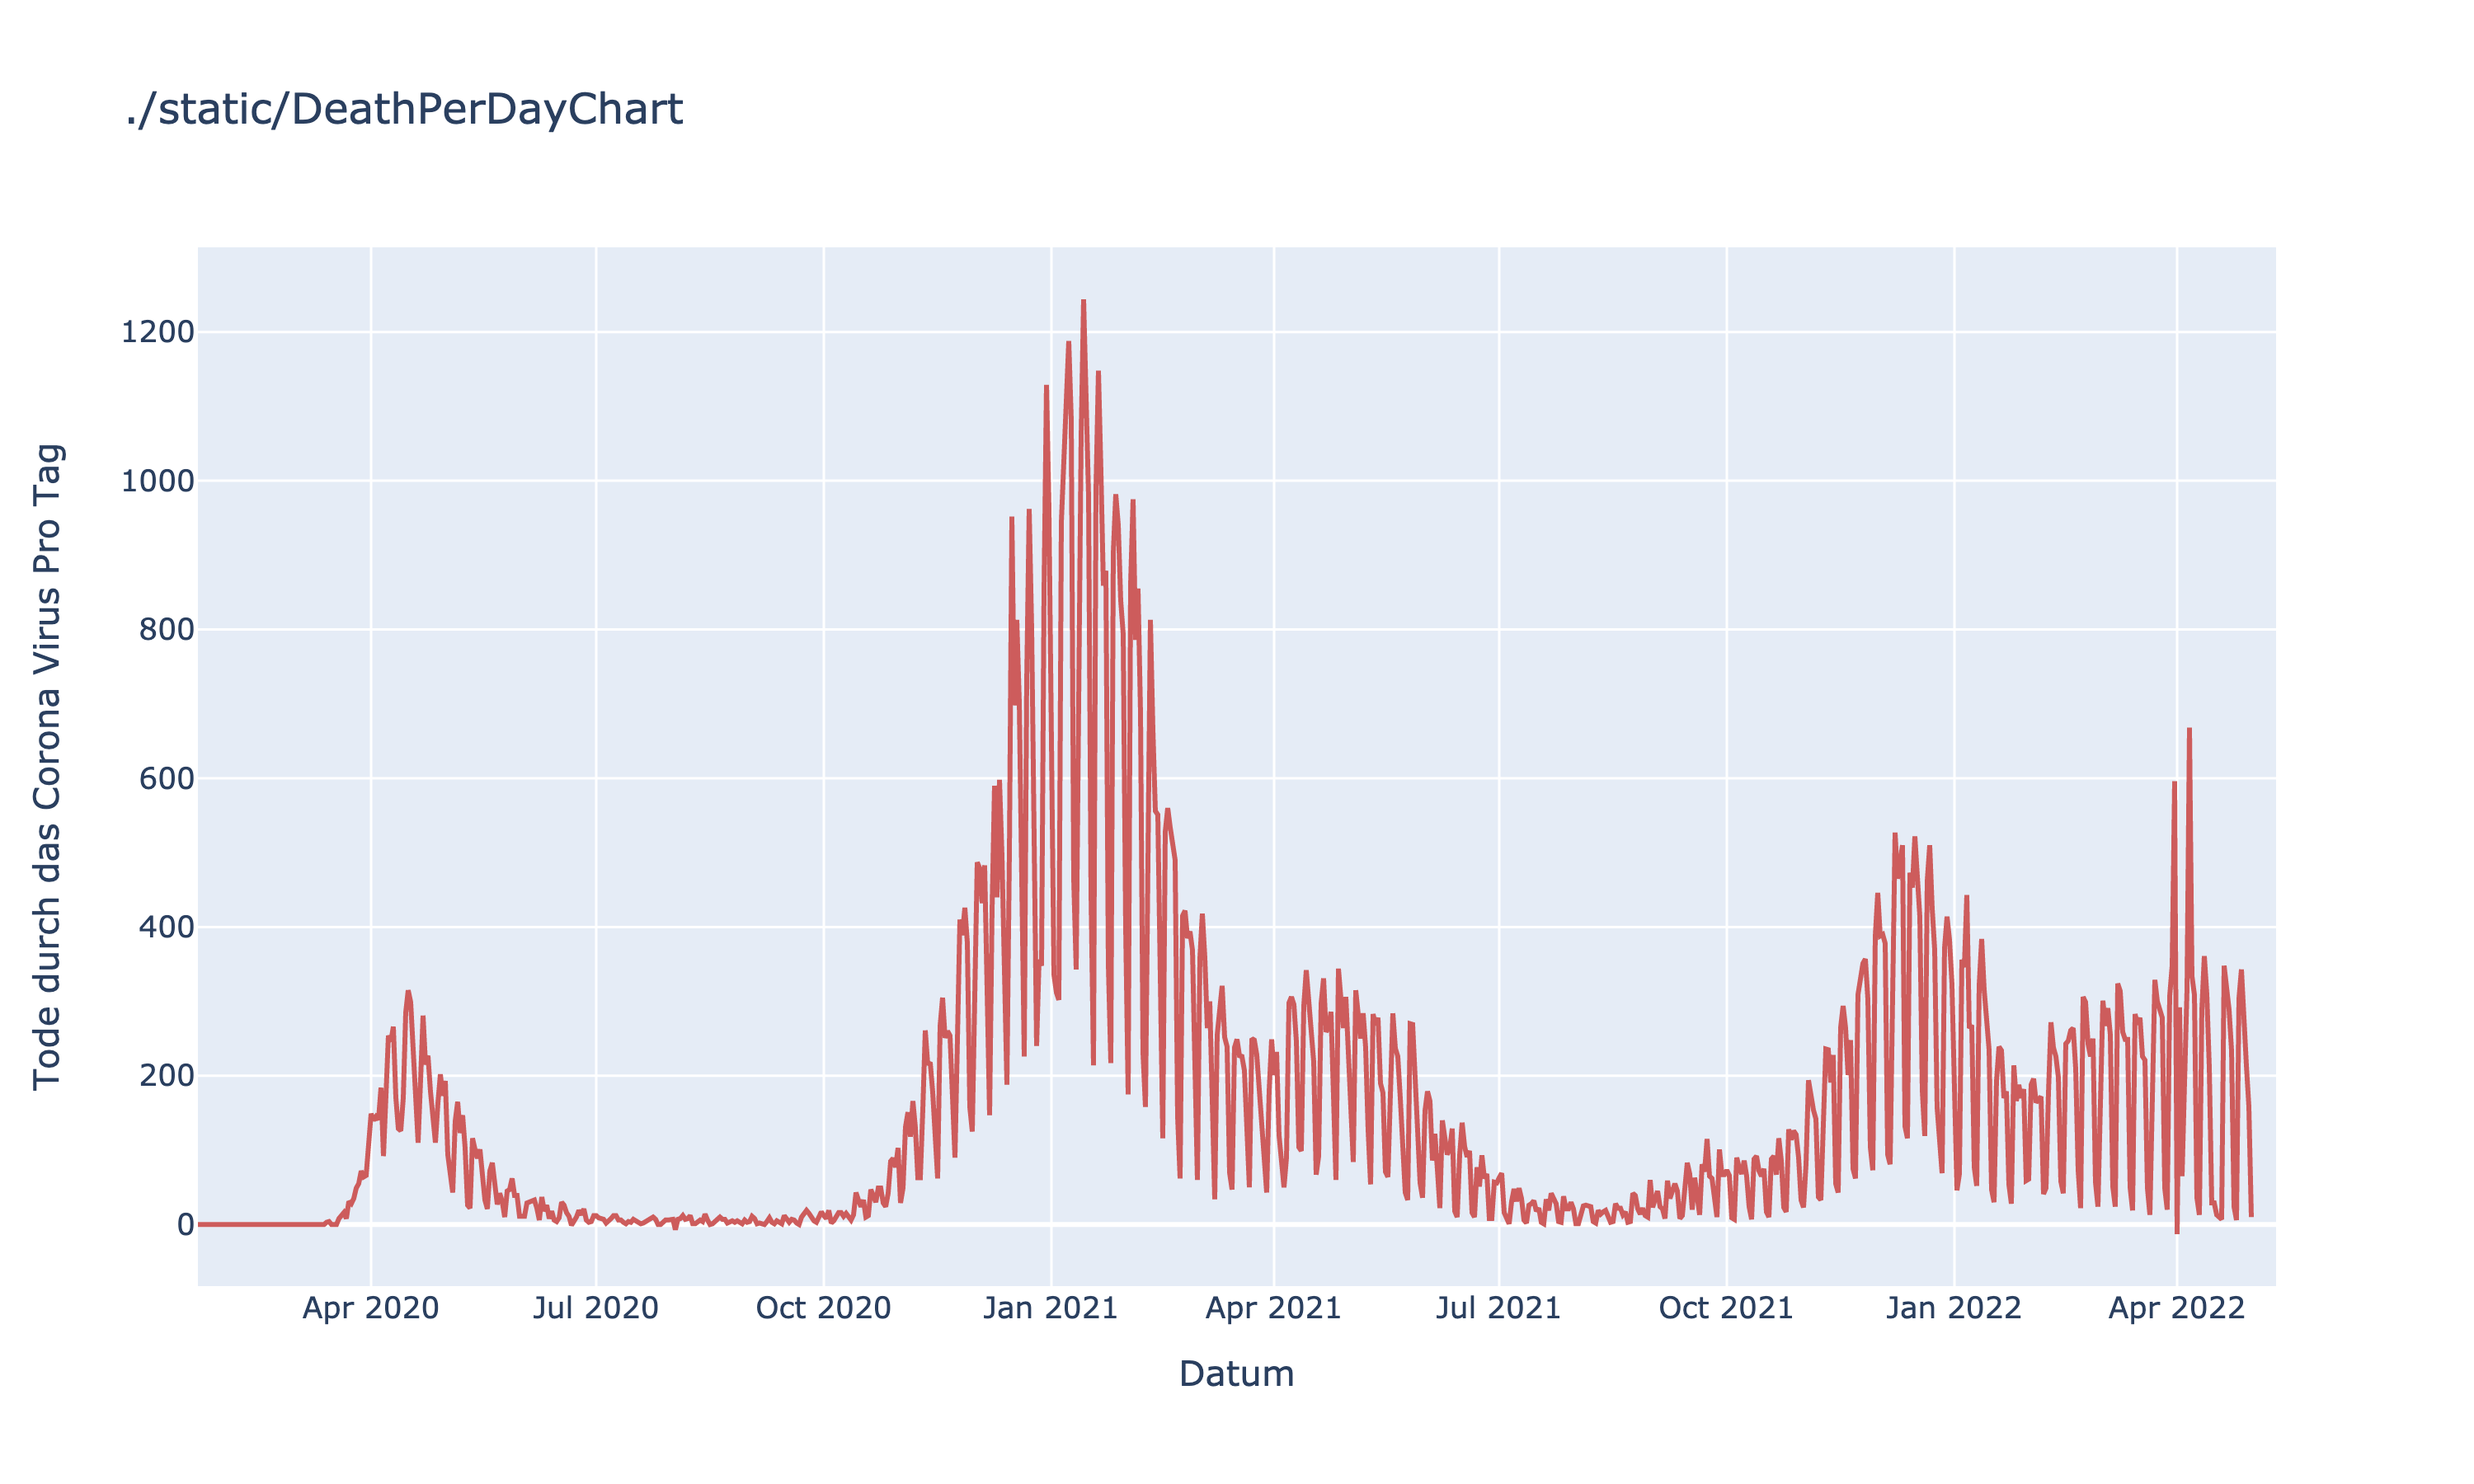
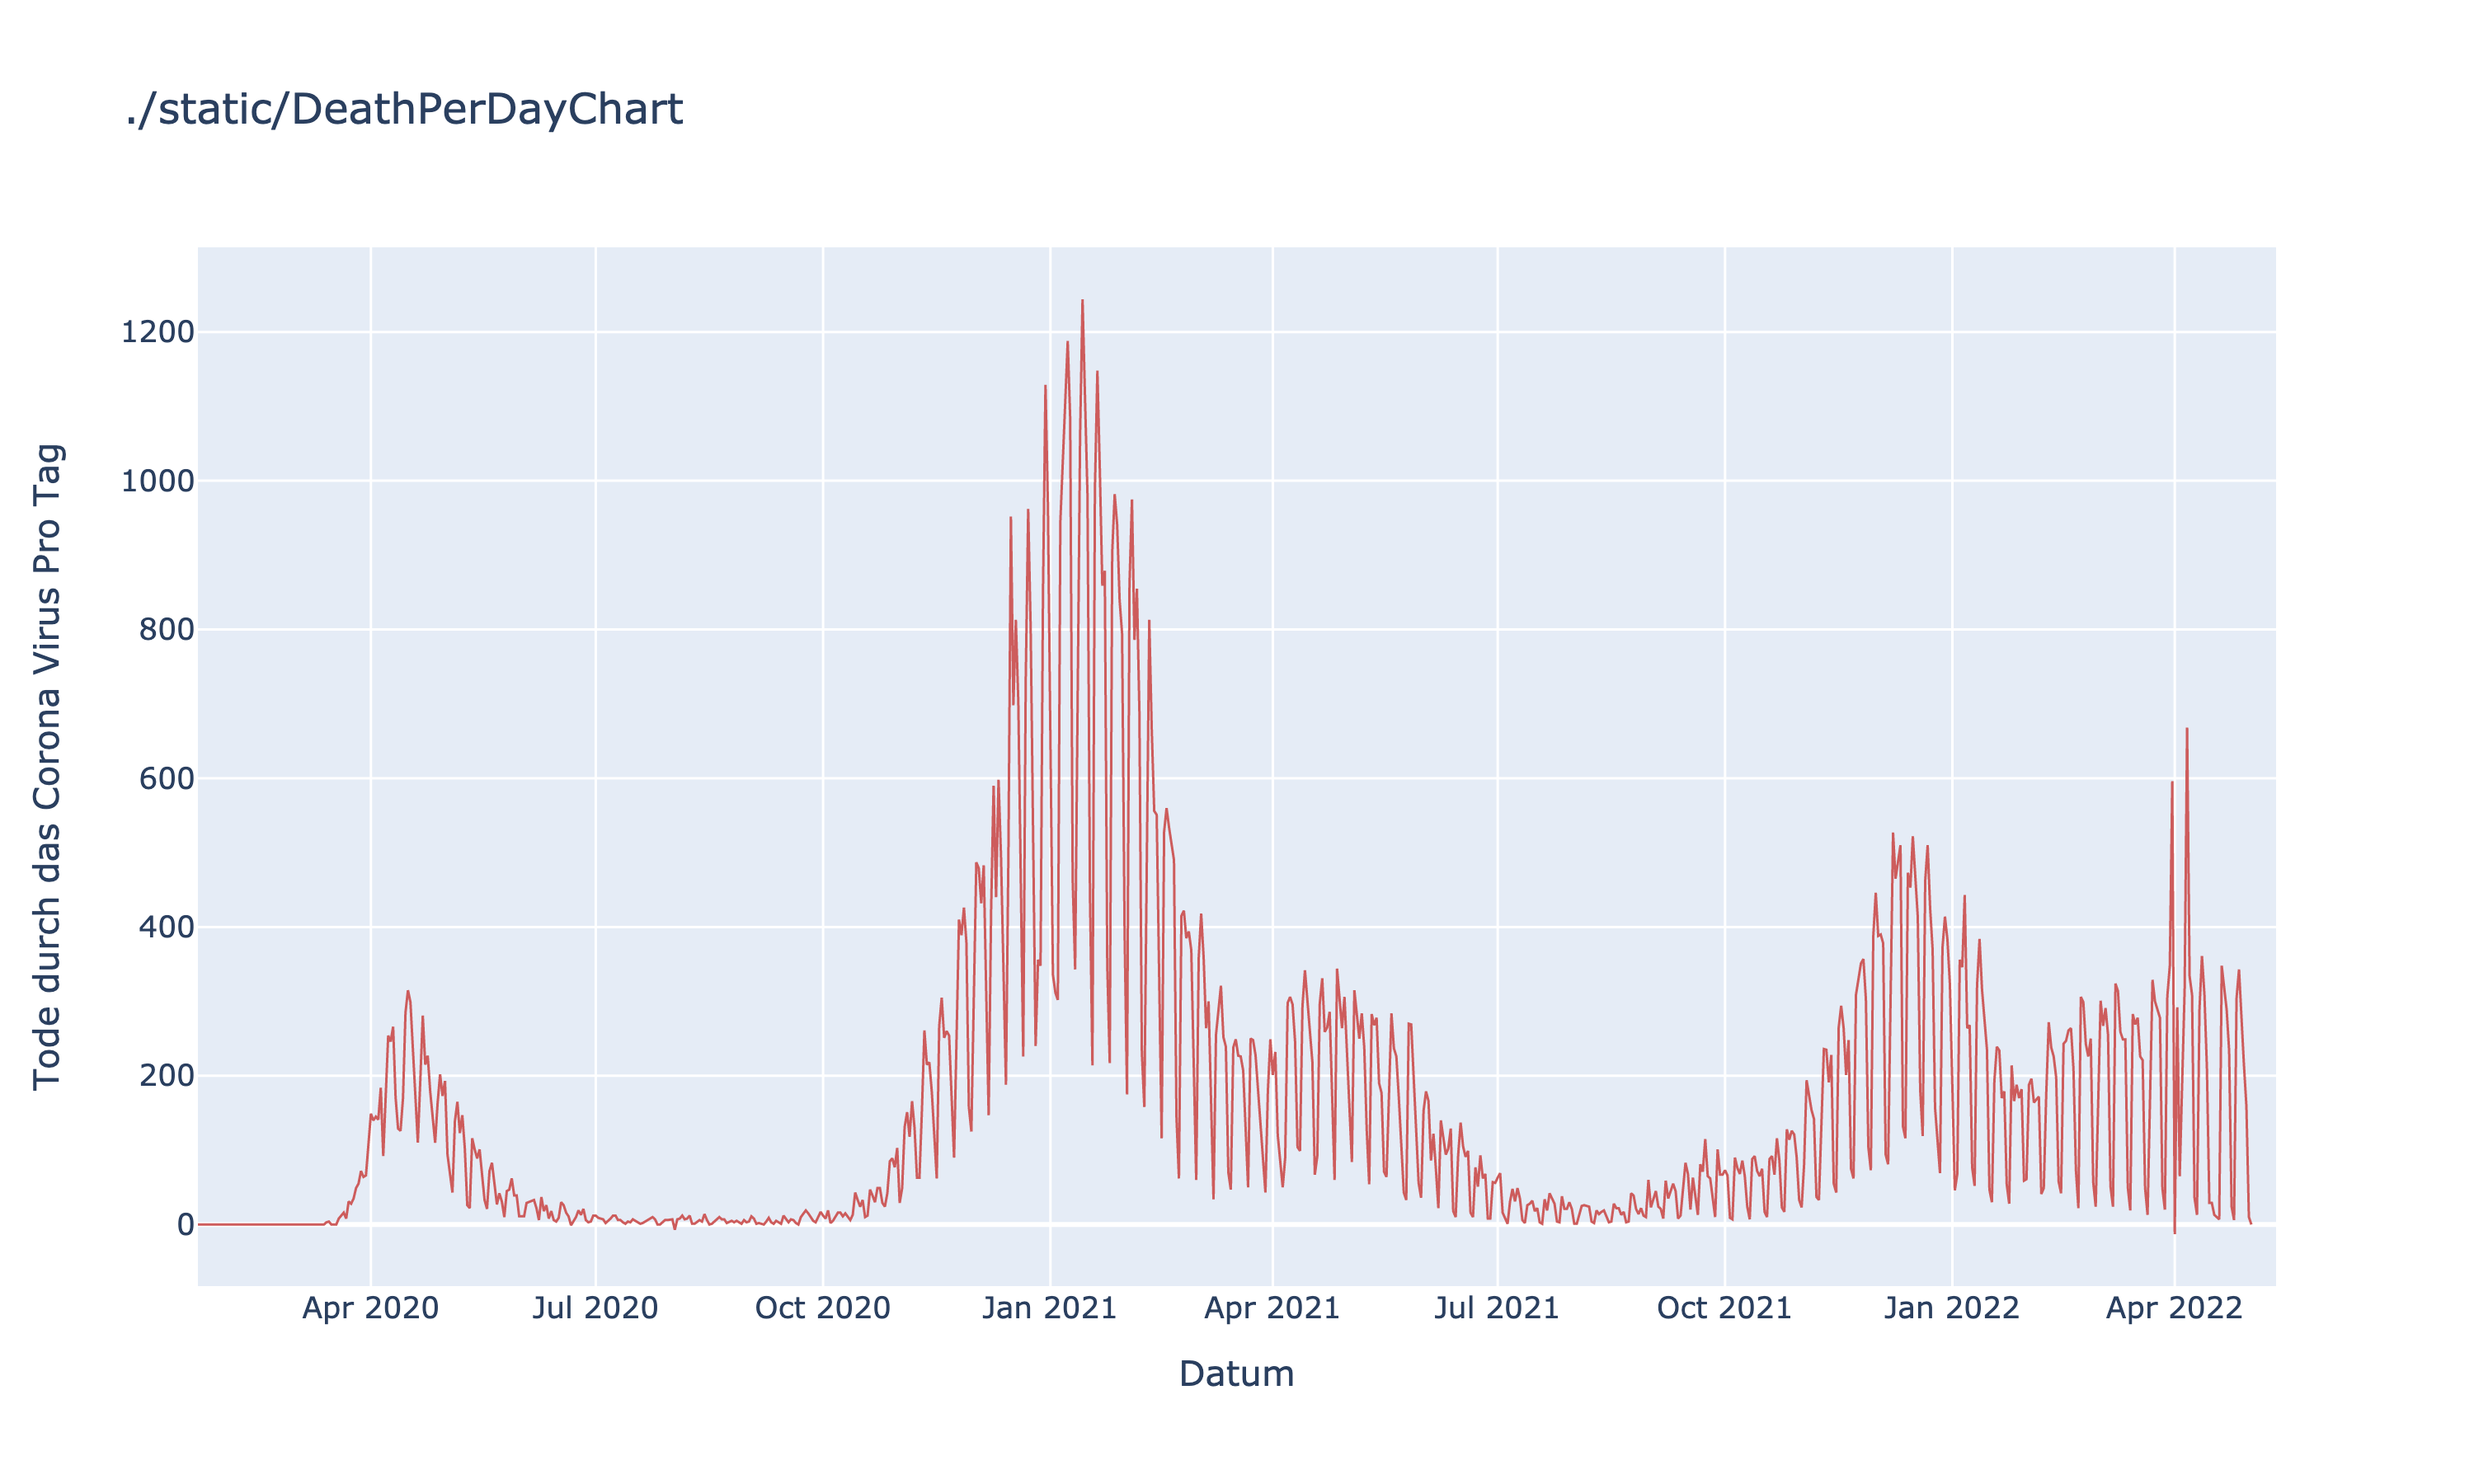
updated graph

diff --git a/src/scrape.py b/src/scrape.py
@@ -116,8 +116,37 @@ class Scrape:
         fig = go.Figure(
             data=go.Scatter(x=total_infection_history[0],
                             y=total_infection_history[1],
+                            line = dict(width = 1),
                             marker_color='indianred',
                             text="infections"))
+        if a == 1:
+            average_last_7_days = []
+
+            for day in all_data_in_db:
+                average_last_7_days.append(int(day[7])/7)
+
+            fig.add_scatter(x=total_infection_history[0],
+                                y=average_last_7_days,
+                                line = dict(width = 3),
+                                marker_color='indianred',
+                                text="infection average of last seven days")
+        fig.update_layout(
+            legend=dict(
+                x=0,
+                y=1,
+                traceorder="reversed",
+                title_font_family="Times New Roman",
+                font=dict(
+                    family="Courier",
+                    size=12,
+                    color="black"
+                ),
+                bgcolor="LightSteelBlue",
+                bordercolor="Black",
+                borderwidth=2
+            )
+        )
+
         fig.update_layout(
             {"title": filename,
              "xaxis": {"title": "Datum",

diff --git a/main.py b/main.py
@@ -2,6 +2,7 @@ from flask import Flask, request, send_file
 import schedule
 import time
 import os
+import logging
 # modules
 from src.db import Db
 from src.scrape import Scrape
@@ -11,6 +12,17 @@ from src.render_daily_report import Daily_report
 app = Flask(__name__)
 
 Scrape().scrape()
+
+# logging.basicConfig(filename='record.log', level=logging.DEBUG, format=f'%(asctime)s %(levelname)s %(name)s %(threadName)s : %(message)s')
+ 
+@app.route('/blogs')
+def blog():
+    app.logger.info('Info level log')
+    app.logger.warning('Warning level log')
+    return f"Welcome to the Blog"
+ 
+app.run(host='localhost', debug=True)
+
 
 
 @app.route('/')
@@ -81,7 +93,7 @@ def renderDailyReport():
     return send_file('./daily_reports/daily_report_'+str(today)+'.png', mimetype='image/gif')
 
 
-app.run(host="0.0.0.0", port="80")
+app.run(host="0.0.0.0", port="8080")
 schedule.every().day.at('07:00').do(Scrape().scrape)
 
 while 1:
